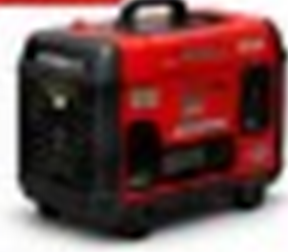
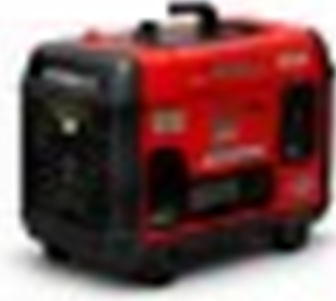
Clean the Canva OPTIONAL badge out of the generator photo
The crop clipped the badge's red edge into the top of the image, which read as
a stray line on the page. Painted over it in a working copy so the carry handle
stays intact.

diff --git a/public/prototype.html b/public/prototype.html
@@ -136,7 +136,7 @@
   </section>
 
   <section class="addon">
-    <div class="pic"><img src="/images/part-generator.png?v=3" alt="Compact inverter generator for on-site charging"/></div>
+    <div class="pic"><img src="/images/part-generator.png?v=4" alt="Compact inverter generator for on-site charging"/></div>
     <div>
       <span class="tag2">OPTIONAL ADD-ON</span>
       <h3>110V Generator or Wall Plug Input</h3>

diff --git a/public/production.html b/public/production.html
@@ -119,7 +119,7 @@
 
     <article class="card">
       <span class="num">4</span>
-      <div class="pic"><img src="/images/part-generator.png?v=3" alt="Extended battery power system"/></div>
+      <div class="pic"><img src="/images/part-generator.png?v=4" alt="Extended battery power system"/></div>
       <div class="body">
         <h3>Longer Battery Life</h3>
         <ul>
